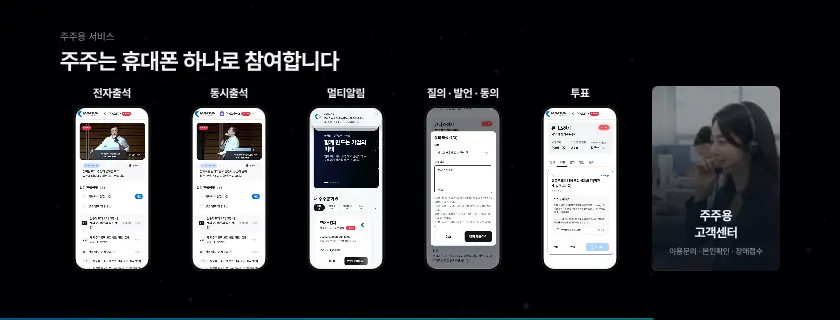
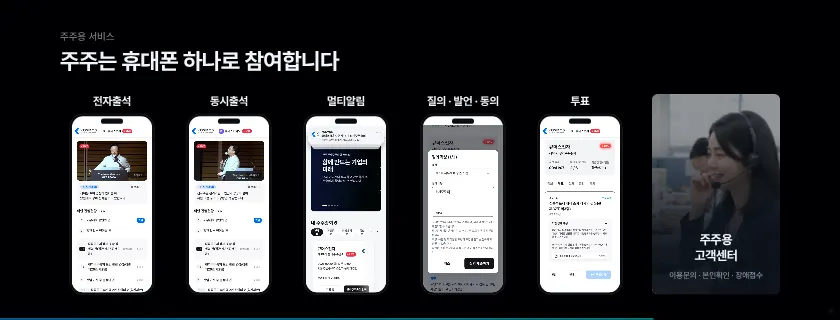
세션4 K26 휴대폰 키움 · 상태바 자리로 헤더 정렬, K28p 특허 목록 뒤 전폭 박스
Claude-Session: https://claude.ai/code/session_01Mn7NmyW5iujmmHnaRBFKBZ

diff --git a/session4.html b/session4.html
@@ -2024,6 +2024,15 @@ html.r169 #K27 .sec-c{--k27y:560px}
 /* 11/27 21:12 K25 왼쪽 목록 점을 글줄 세로 가운데에 */
 #K25 .lst li{align-items:center}
 #K25 .lst li:before{top:calc(50% - 11px)}
+/* 11/27 21:15 K26 휴대폰 키움(380×822 → 420×900), 화면 위 상태바 자리(46px)를 둬 KOSMOS 헤더가 둥근 모서리에 잘리지 않고 반듯하게 */
+#K26 .k26r{top:470px}
+#K26 .k26p{width:420px!important;height:900px!important;border-radius:64px!important;padding:10px!important}
+#K26 .k26p .sc{border-radius:55px!important;padding-top:46px;position:relative}
+#K26 .k26p .sc::before{content:"";position:absolute;left:50%;top:12px;width:110px;height:26px;margin-left:-55px;border-radius:13px;background:#0b0d10}
+#K26 .k26p video{height:100%!important}
+#K26 .k26s{top:470px!important;height:1001px!important}
+/* 11/27 21:16 K28p 아래 특허 목록 뒤에 박스(K13 띠와 같은 면) — 좌우 · 아래 화면 끝까지 */
+#K28p .k28bg{position:absolute;left:0;right:0;top:820px;bottom:0;border-top:2px solid rgba(242,245,250,.1);background:linear-gradient(180deg,rgba(14,18,24,.75),rgba(8,11,15,.55))}
 /* ═════ 16:9 버전 (?a=16x9, 11/27) ═════
    ※ 빔프로젝터(led.html?a=16x9) M7-7이 이 모드를 씀. 장을 고치면 ?a=16x9로도 확인하고, 21:8 원본 위치를 바꾸면 아래 html.r169 #Kxx 규칙도 같이 맞출 것.
       R169Z(묶음 축소) 장은 내용 범위를 자동으로 재서 배치하므로 대부분 따라감.
@@ -2110,6 +2119,7 @@ html.r169 #K08 canvas.viz{top:580px!important}
 html.r169 #K18a .rp,html.r169 #K18c .rp{width:1800px}
 html.r169 #K18a .card,html.r169 #K18c .card{left:60px;right:220px}
 html.r169 #K24a .k24map{left:1520px!important;top:170px!important;width:2000px!important;height:1500px!important}
+html.r169 #K28p .k28bg{top:800px}
 /* ═════ 16:9 끝 ═════ */
 </style></head>
 <body>
@@ -2548,6 +2558,7 @@ html.r169 #K24a .k24map{left:1520px!important;top:170px!important;width:2000px!i
   <div class="fu onl" style="--i:3"><p class="hd">온라인 참여 <b>1건</b></p><p class="tt">주주 유형별 참여 계정</p><p class="ds">임시계정 기반 주주총회 참여</p></div>
   <div class="fu cum" style="--i:3"><p class="hd">집중투표 <b>1건</b></p><p class="tt">집중투표 의결권 분배</p><p class="ds">집중투표를 위한 의결권 분배 기술</p></div>
  </div>
+ <div class="k28bg fu" style="--i:4"></div>
  <ol class="k28pl"><div><li class="fu site" style="--i:5"><span class="pn">01</span><span class="pc">현장 출석</span><span class="pt">NFC 기반의 TTL을 이용한 주주총회 참석 인증 방법 및 시스템</span><span class="pa">10-2026-0124604</span></li><li class="fu site" style="--i:5"><span class="pn">02</span><span class="pc">현장 출석</span><span class="pt">QR코드 기반의 TTL을 이용한 주주총회 참석 인증 방법 및 시스템</span><span class="pa">10-2026-0124608</span></li><li class="fu site" style="--i:5"><span class="pn">03</span><span class="pc">현장 출석</span><span class="pt">주주총회 의결권 행사 방법 및 시스템</span><span class="pa">10-2026-0124612</span></li><li class="fu vote" style="--i:5"><span class="pn">04</span><span class="pc">현장 표결</span><span class="pt">BLE비콘을 이용한 위치확인 기반의 주주총회 의결권 행사 방법 및 시스템</span><span class="pa">10-2026-0160321</span></li><li class="fu vote" style="--i:5"><span class="pn">05</span><span class="pc">현장 표결</span><span class="pt">BLE비콘의 시계열적 인식 기반의 주주총회 의결권 행사 방법 및 시스템</span><span class="pa">10-2026-0160341</span></li><li class="fu vote" style="--i:5"><span class="pn">06</span><span class="pc">현장 표결</span><span class="pt">모바일용 BLE신호 수신 기반의 주주총회 의결권 행사 방법 및 시스템</span><span class="pa">10-2026-0160347</span></li><li class="fu vote" style="--i:5"><span class="pn">07</span><span class="pc">현장 표결</span><span class="pt">동적QR코드를 이용한 주주총회 의결권 행사 방법 및 시스템</span><span class="pa">10-2026-0176962</span></li></div><div><li class="fu vote" style="--i:6"><span class="pn">08</span><span class="pc">현장 표결</span><span class="pt">동적QR코드를 이용한 웹 기반의 주주총회 의결권 행사 방법 및 시스템</span><span class="pa">10-2026-0176978</span></li><li class="fu vote" style="--i:6"><span class="pn">09</span><span class="pc">현장 표결</span><span class="pt">다층적 네트워크 파라미터를 이용한 주주총회 의결권 행사 방법 및 시스템</span><span class="pa">10-2026-0179920</span></li><li class="fu vote" style="--i:6"><span class="pn">10</span><span class="pc">현장 표결</span><span class="pt">네트워크의 고유계정을 이용한 주주총회 의결권 행사 방법 및 시스템</span><span class="pa">10-2026-0179928</span></li><li class="fu vote" style="--i:6"><span class="pn">11</span><span class="pc">현장 표결</span><span class="pt">위치상태 기반의 주주총회 의결권 행사 방법 및 시스템</span><span class="pa">10-2026-0206970</span></li><li class="fu onl" style="--i:6"><span class="pn">12</span><span class="pc">온라인 참여</span><span class="pt">주주유형별 임시계정 기반의 주주총회 참여 방법 및 시스템</span><span class="pa">10-2026-0192034</span></li><li class="fu cum" style="--i:6"><span class="pn">13</span><span class="pc">집중투표</span><span class="pt">집중투표 의결권 분배 방법 및 시스템</span><span class="pa">10-2026-0192052</span></li></div></ol>
 </section> 
 <!-- ═════════ 6. 운영지원 ═════════ -->
@@ -2873,7 +2884,7 @@ const R169=document.documentElement.classList.contains('r169'),SW=R169?3200:4200
 /* 16:9 재배치를 마친 장 */
 const R169OK='K00 K01 K03 K12 K16 K21b K20 K27 K04 K09 K05 K06 K07 K08 K13 K14 K09b K10 K11 K28e K17 K18a K18c K18b K19 K23 K23b K25 K25b K28b K24a K24b K24c K26 K28c K15 K19b K19c K21 K22s K28p K29 K28d K28a K02'.split(' ');if(R169)R169OK.forEach(k=>{const e=document.getElementById(k);if(e)e.dataset.r=1;});
 /* 16:9: 큰 도식 장은 제목(.top) 외 요소를 한 묶음(.zr)으로 감싸 폭 2760에 맞게 줄이고 제목 아래 세로 공간을 씀. [배율, 원본 내용 왼쪽, 원본 내용 위, 16:9 내용 위, 제외 선택자] */
-window.R169Z={K02:[.9,'.top'],K24a:[.82,'.ab,.k24map',1480,3120],K24b:[.82,'.k24bt,.k24bi',1480,3120],K19b:[.767,'.top,.k19i'],K19c:[.767,'.top'],K21:[.767,'.k21t,.k21bg'],K22s:[.767,'.top'],K28p:[.767,'.ab:first-child'],K29:[.767,'.top'],K28d:[.767,'.top'],K28a:[.767,'.top'],K28c:[.767,'.top,.k28ph',null,null,-250],K24c:[.767,'.top',null,null,-80],K26:[.767,'.top'],K15:[.767,'.top']};
+window.R169Z={K02:[.9,'.top'],K24a:[.82,'.ab,.k24map',1480,3120],K24b:[.82,'.k24bt,.k24bi',1480,3120],K19b:[.767,'.top,.k19i'],K19c:[.767,'.top'],K21:[.767,'.k21t,.k21bg'],K22s:[.767,'.top'],K28p:[.767,'.ab:first-child,.k28bg'],K29:[.767,'.top'],K28d:[.767,'.top'],K28a:[.767,'.top'],K28c:[.767,'.top,.k28ph',null,null,-250],K24c:[.767,'.top',null,null,-80],K26:[.767,'.top'],K15:[.767,'.top']};
 /* 묶음을 줄인 뒤 실제 내용 범위를 재서 제목 아래 남는 공간의 가운데(가로는 화면 가운데)에 놓음 */
 window.r169wrap=function(){const st=document.getElementById('stage');for(const id in R169Z){const S=document.getElementById(id);if(!S)continue;const [z,skip,X0,X1,DY]=R169Z[id];const w=document.createElement('div');w.className='zr';[...S.children].filter(c=>!(skip&&c.matches(skip))).forEach(c=>w.appendChild(c));S.appendChild(w);S.dataset.r=1;w.dataset.z=z;if(X0!=null){w.dataset.x0=X0;w.dataset.x1=X1;}w.dataset.dy=DY||0;}
  const place=()=>{const sr=st.getBoundingClientRect(),k=sr.width/3200;document.querySelectorAll('.zr').forEach(w=>{const z=+w.dataset.z;w.style.transform=`scale(${z})`;let L=1e9,T=1e9,R=-1e9,B=-1e9;

diff --git a/sw.js b/sw.js
@@ -1,5 +1,5 @@
 /* 오프라인 캐시 — 온라인 주소(https)로 한 번 열면 모든 파일을 저장해 두고, 통신이 끊겨도 저장본으로 동작합니다. */
-const V='seminar-screen-11272112';
+const V='seminar-screen-11272116';
 const FILES=["./","assets/KakaoBigSans-Bold.woff2","assets/KakaoBigSans-Regular.woff2","assets/KakaoSmallSans-Bold.woff2","assets/KakaoSmallSans-Light.woff2","assets/KakaoSmallSans-Regular.woff2","assets/OrbitControls.js","assets/PretendardVariable.woff2","assets/attendees.js","assets/blue-bloom.html","assets/cong1.webp","assets/cong2.webp","assets/ds-bg.html","assets/four-states.html","assets/intro.mp4","assets/irk-white.svg","assets/irk-wordmark-white.svg","assets/kism-intro.mp4","assets/kism-white.svg","assets/ksmp-white.svg","assets/panel.js","assets/qa-online.js","assets/s2/img1.png","assets/s2/img2.png","assets/s2/img3.png","assets/s2/img4.png","assets/s4/aws.webp","assets/s4/callcenter.webp","assets/s4/chair-1.webp","assets/s4/chair-2.webp","assets/s4/chair-3.webp","assets/s4/conexus-word.webp","assets/s4/ctl-1.webp","assets/s4/cx-1.webp","assets/s4/cx-2.webp","assets/s4/cx-3.webp","assets/s4/cx-flow.mp4","assets/s4/cx-pop1.webp","assets/s4/cx-pop2.webp","assets/s4/cx-vote.mp4","assets/s4/cx-vote.webp","assets/s4/cxs-1.webp","assets/s4/insurance.webp","assets/s4/isms-t.webp","assets/s4/isms.webp","assets/s4/ismsp-t.webp","assets/s4/ismsp.webp","assets/s4/kosmos-white.png","assets/s4/ks-1.webp","assets/s4/ks-2.webp","assets/s4/ks-3.webp","assets/s4/ks-4.webp","assets/s4/ks-5.webp","assets/s4/ks-video.webp","assets/s4/live-1.webp","assets/s4/live-2.webp","assets/s4/live-3.webp","assets/s4/live-4.webp","assets/s4/live-5.webp","assets/s4/live-6.webp","assets/s4/live-7.webp","assets/s4/live-8.webp","assets/s4/logos.webp","assets/s4/ocr-1.webp","assets/s4/ocr-2.webp","assets/s4/ocr-3.webp","assets/s4/ocr-4.webp","assets/s4/ocr-5.webp","assets/s4/on-1.png","assets/s4/on-2.webp","assets/s4/on-3.webp","assets/s4/on-4.png","assets/s4/on-5.webp","assets/s4/onboard-1.webp","assets/s4/onboard-2.webp","assets/s4/privacy.webp","assets/s4/proxymity.svg","assets/s4/rehearsal.webp","assets/s4/streaming-korea.webp","assets/s4/tab-1.webp","assets/s4/tab-2.webp","assets/s4/team.webp","assets/sched.js","assets/screen-title-2.svg","assets/screen-title-b-text.svg","assets/screen-title-b.svg","assets/seat-banners.js","assets/seat-fascia.js","assets/seat-screen.js","assets/seatmap.js","assets/service-intro.mp4","assets/speaker-scott.webp","assets/speaker1-1.webp","assets/speaker2.webp","assets/speaker3-1.webp","assets/supabase.min.js","assets/three.min.js","assets/title-logos.svg","control.html","index-fs.html","index.html","kism.html","lobby/cuts.html","lobby/index.html","mc.html","session2.html","session4.html","sw.js","tools/s2_build.py","tools/s2_shell.html","assets/s3/p01.webp","assets/s3/p02.webp","assets/s3/p03.webp","assets/s3/p04.webp","assets/s3/p05.webp","assets/s3/p06.webp","assets/s3/p07.webp","assets/s3/p08.webp","assets/s3/p09.webp","assets/s3/p10.webp","assets/s3/p11.webp","assets/s3/p12.webp","assets/s3/p13.webp","assets/s3/p14.webp","assets/s3/p15.webp","assets/s3/p16.webp","assets/s3/p17.webp","assets/s3/p18.webp","assets/s3/p19.webp","assets/s3/p20.webp","assets/s3/p21.webp","assets/s3/p22.webp","assets/s3/p23.webp","assets/kism/photo-main.webp","assets/kism/photo-2.webp","assets/kism/photo-3.webp","assets/kism/photo-4.webp","assets/sound/countdown-tick.mp3","assets/sound/sfx-s3-part.mp3","assets/sound/sfx-s4-reveal.mp3","assets/sound/sfx-s5-proxymity.mp3","assets/sound/sfx-s6-chime.mp3","assets/sound/sfx-s7-close.mp3","assets/sound/opening-hit.mp3","assets/s4/kosmos-color.svg","assets/s4/ke-logo.png","assets/s4/ke-live.mp4","assets/kism/kwon-talk.mp4","assets/kism/manual-book.webp","kism-open.html","kism_16x9.html","led.html","assets/s4/cx-ops.mp4","assets/s4/cx-ops.webp","assets/s4/agent-app.mp4","assets/s4/kosmos-web.webp","assets/s4/ks-attend.mp4","assets/s4/ks-attend.webp","assets/s4/ks-switch.mp4","assets/s4/ks-switch.webp","assets/s4/ks-notify.mp4","assets/s4/ks-notify.webp","assets/s4/ks-vote.mp4","assets/s4/ks-vote.webp","assets/s4/ks-qna.mp4","assets/s4/ks-qna.webp","assets/s4/pc-map.webp","assets/s4/pc-map.mp4","assets/s4/pc-web.mp4","assets/s4/pc-web.webp","assets/s4/agent-app.webp","assets/s4/k24b-bg.webp","session0.html","face.html","assets/face-link.js","assets/kism/photo-main-cut.webp","assets/s4/cx-chair.mp4","assets/s4/cx-chair.webp","assets/s4/cx-test.mp4","assets/s4/cx-test.webp","assets/s4/onboard-mgr.webp","assets/s4/proxymity-logo.png","assets/s4/k21-bg.webp","assets/s4/kosmos-admin-white.svg","assets/kism-intro-16x9.mp4","assets/seat-guide.html","assets/s4/app-icon-agent.svg","assets/ds-main.mp4","assets/s4/k2-agency.webp","assets/s4/k2-support.webp","assets/s4/thumbs/K00.webp","assets/s4/thumbs/K01.webp","assets/s4/thumbs/K02.webp","assets/s4/thumbs/K03.webp","assets/s4/thumbs/K04.webp","assets/s4/thumbs/K05.webp","assets/s4/thumbs/K06.webp","assets/s4/thumbs/K07.webp","assets/s4/thumbs/K08.webp","assets/s4/thumbs/K09.webp","assets/s4/thumbs/K10.webp","assets/s4/thumbs/K11.webp","assets/s4/thumbs/K12.webp","assets/s4/thumbs/K13.webp","assets/s4/thumbs/K14.webp","assets/s4/thumbs/K15.webp","assets/s4/thumbs/K16.webp","assets/s4/thumbs/K17.webp","assets/s4/thumbs/K18a.webp","assets/s4/thumbs/K18b.webp","assets/s4/thumbs/K18c.webp","assets/s4/thumbs/K19.webp","assets/s4/thumbs/K19b.webp","assets/s4/thumbs/K19c.webp","assets/s4/thumbs/K20.webp","assets/s4/thumbs/K21.webp","assets/s4/thumbs/K21b.webp","assets/s4/thumbs/K22s.webp","assets/s4/thumbs/K23.webp","assets/s4/thumbs/K23b.webp","assets/s4/thumbs/K24a.webp","assets/s4/thumbs/K24b.webp","assets/s4/thumbs/K24c.webp","assets/s4/thumbs/K25.webp","assets/s4/thumbs/K25b.webp","assets/s4/thumbs/K26.webp","assets/s4/thumbs/K27.webp","assets/s4/thumbs/K28a.webp","assets/s4/thumbs/K28b.webp","assets/s4/thumbs/K28c.webp","assets/s4/thumbs/K28d.webp","assets/s4/thumbs/K29.webp","assets/s4/thumbs/K30.webp","assets/s4/thumbs/K09b.webp","assets/s4/thumbs/K28e.webp","assets/s4/thumbs/K28p.webp","assets/s4/onsite-vote.mp4","assets/s4/onsite-vote.webp","assets/s4/rehearsal-site.webp","assets/qr-ask.svg"];
 self.addEventListener('install',e=>{e.waitUntil(caches.open(V).then(c=>c.addAll(FILES)).then(()=>self.skipWaiting()));});
 self.addEventListener('activate',e=>{e.waitUntil(caches.keys().then(ks=>Promise.all(ks.filter(k=>k!==V).map(k=>caches.delete(k)))).then(()=>self.clients.claim()));});
